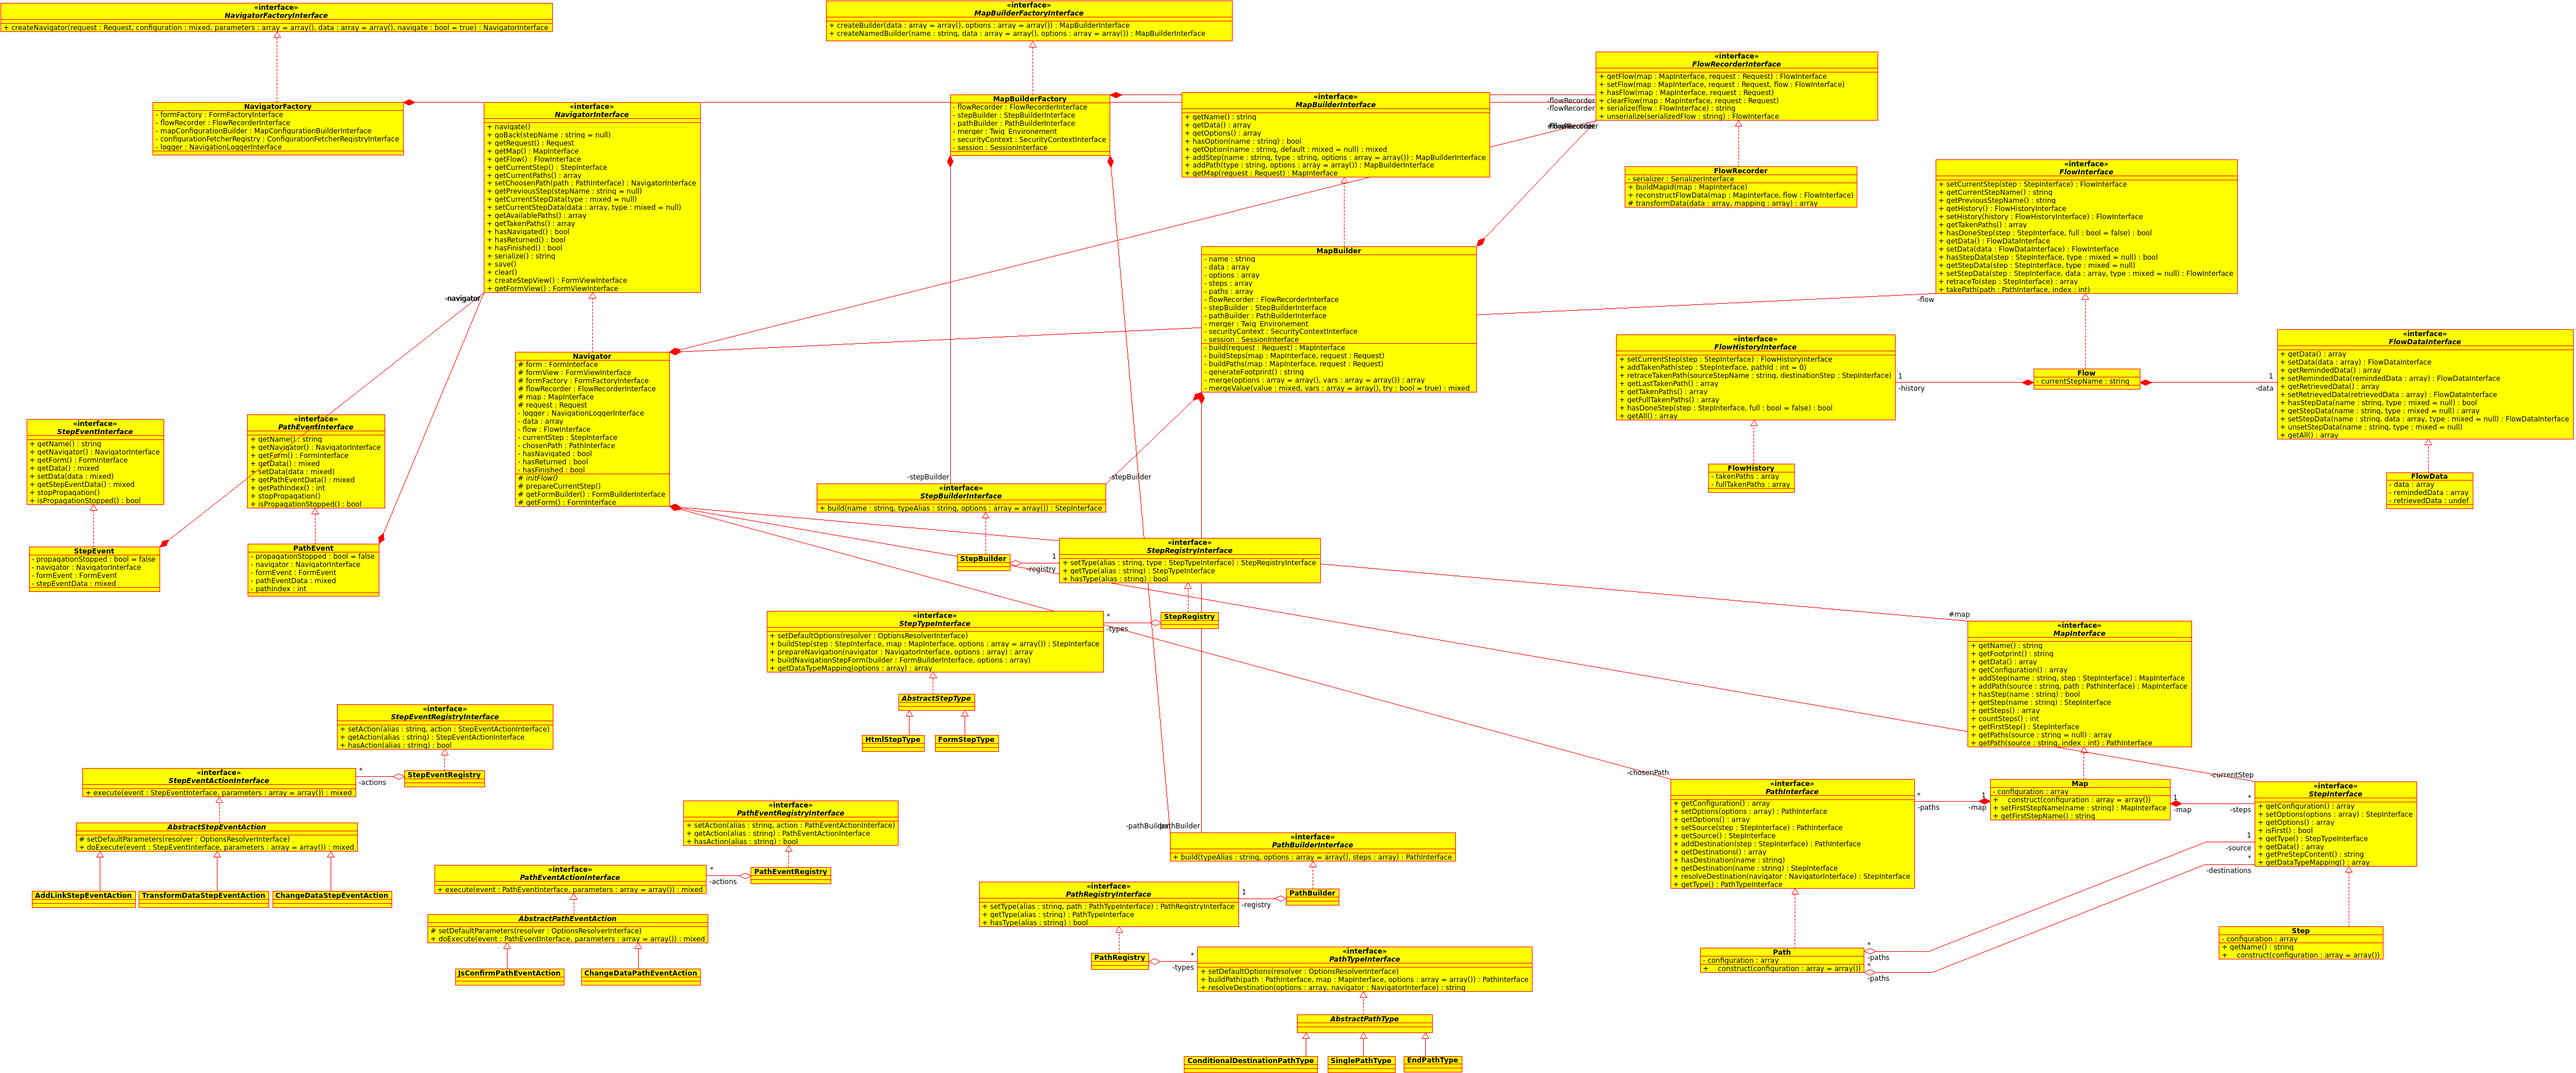
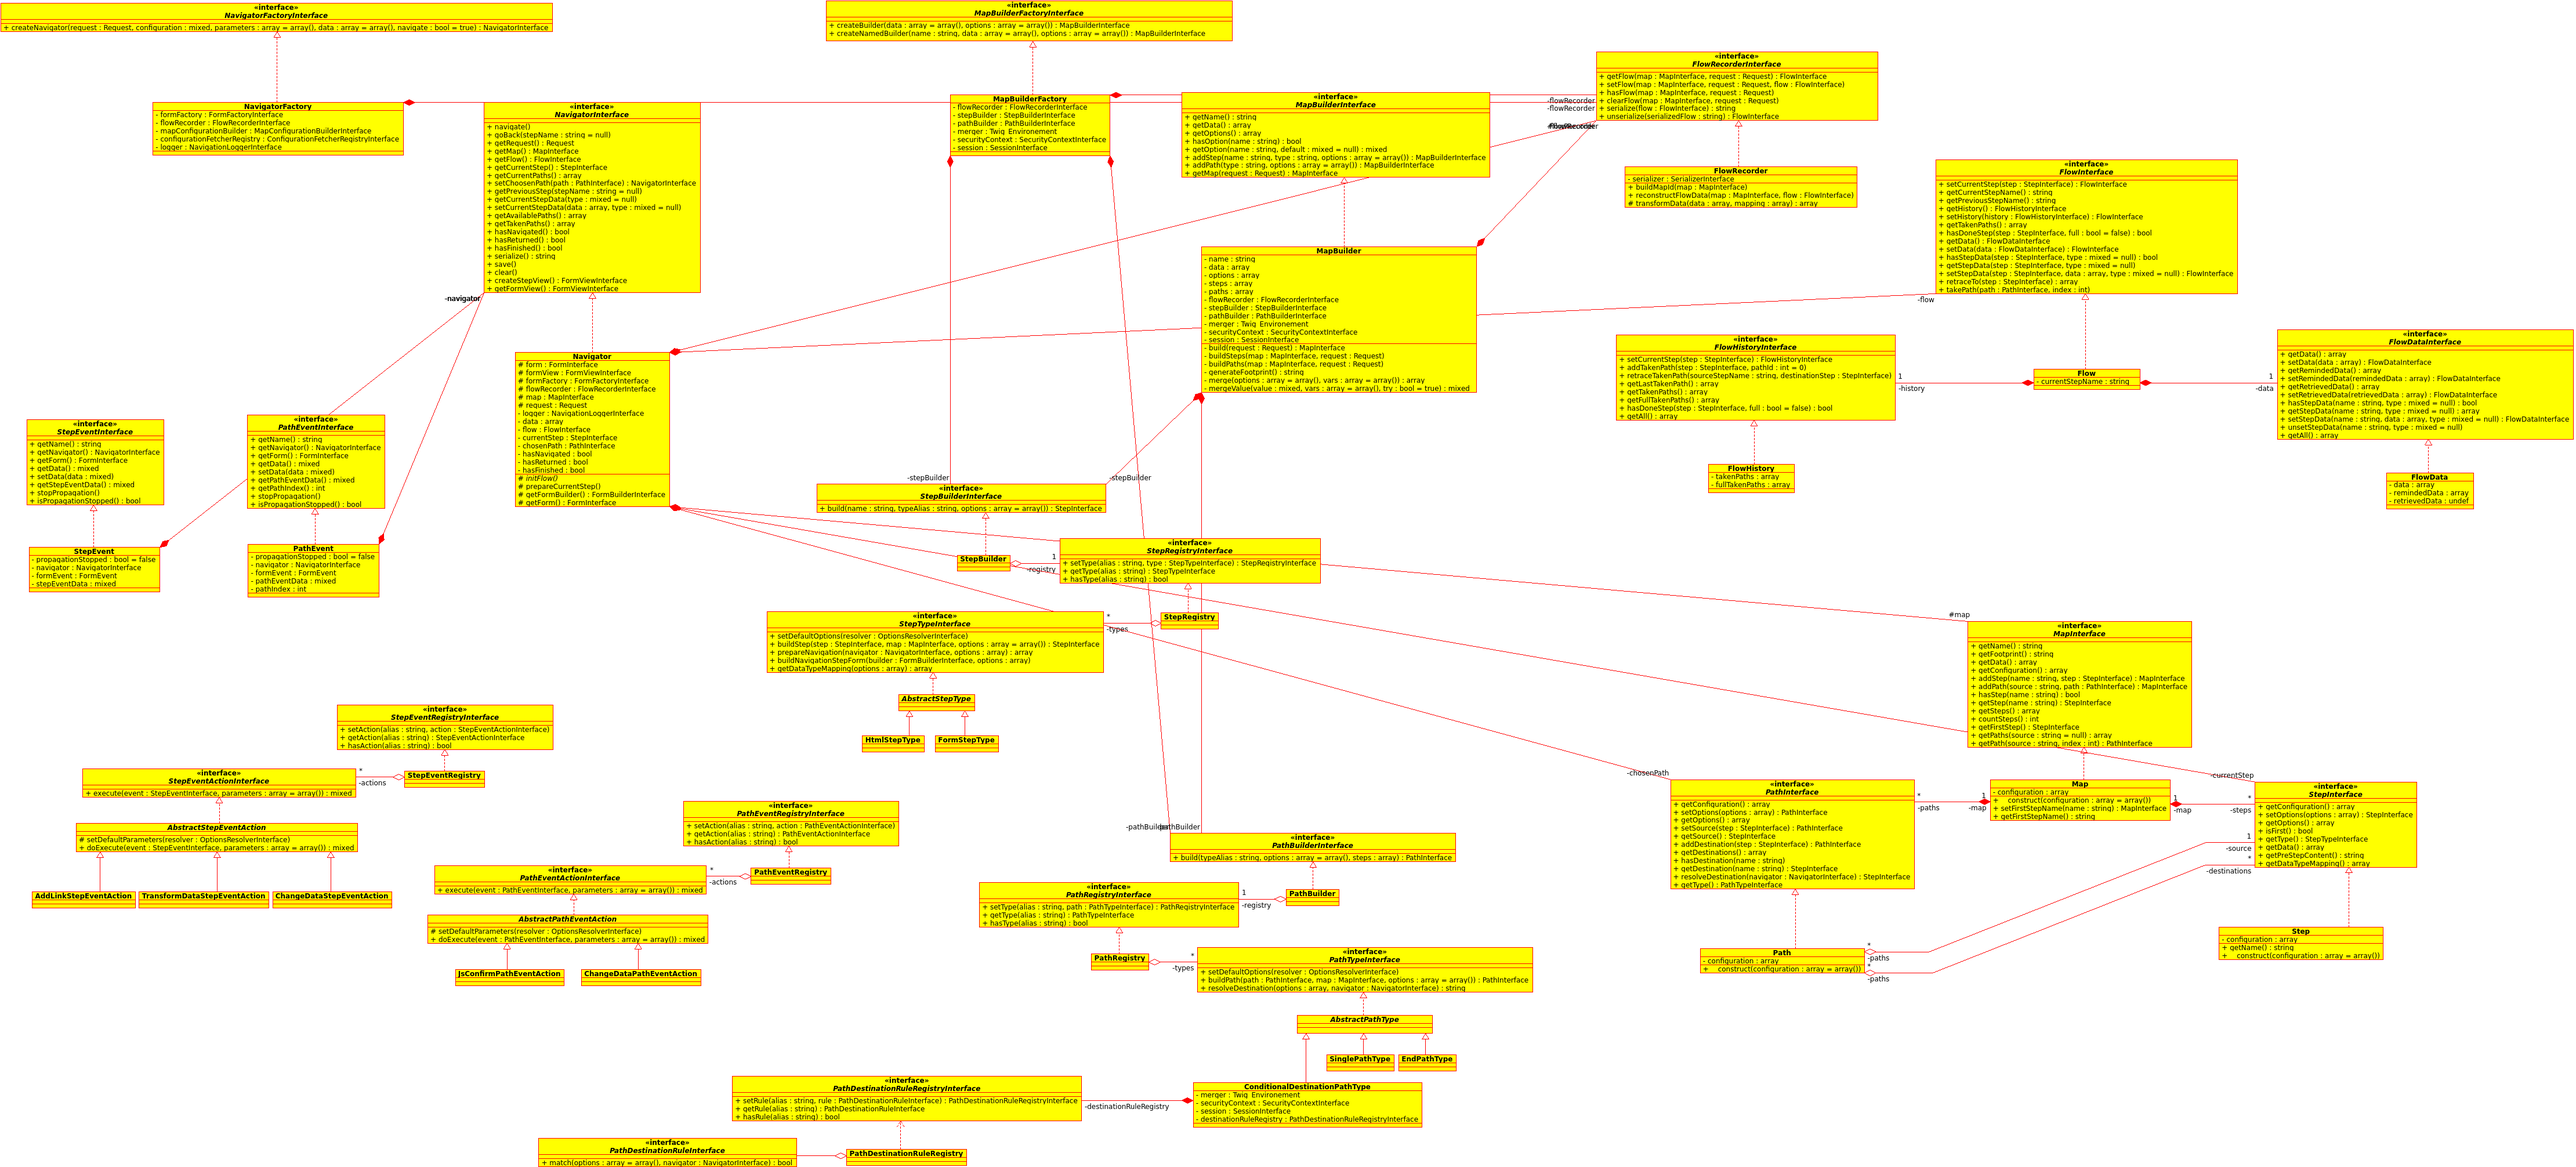
Update UML schema

diff --git a/Path/Type/ConditionalDestinationPathType.php b/Path/Type/ConditionalDestinationPathType.php
@@ -10,7 +10,7 @@ namespace IDCI\Bundle\StepBundle\Path\Type;
 use Symfony\Component\OptionsResolver\OptionsResolverInterface;
 use Symfony\Component\Security\Core\SecurityContextInterface;
 use Symfony\Component\HttpFoundation\Session\SessionInterface;
-use IDCI\Bundle\StepBundle\Path\DestinationRule\PathDestinationRuleRegistry;
+use IDCI\Bundle\StepBundle\Path\DestinationRule\PathDestinationRuleRegistryInterface;
 use IDCI\Bundle\StepBundle\Navigation\NavigatorInterface;
 
 class ConditionalDestinationPathType extends AbstractPathType
@@ -31,22 +31,23 @@ class ConditionalDestinationPathType extends AbstractPathType
     private $session;
 
     /**
-     * @var PathDestinationRuleRegistry
+     * @var PathDestinationRuleRegistryInterface
      */
     private $destinationRuleRegistry;
 
     /**
      * Constructor
      *
-     * @param Twig_Environment         $merger          The twig merger.
-     * @param SecurityContextInterface $securityContext The security context.
-     * @param SessionInterface         $session         The session.
+     * @param Twig_Environment                     $merger                  The twig merger.
+     * @param SecurityContextInterface             $securityContext         The security context.
+     * @param SessionInterface                     $session                 The session.
+     * @param PathDestinationRuleRegistryInterface $destinationRuleRegistry The destination rule registry.
      */
     public function __construct(
-        \Twig_Environment           $merger,
-        SecurityContextInterface    $securityContext,
-        SessionInterface            $session,
-        PathDestinationRuleRegistry $destinationRuleRegistry
+        \Twig_Environment                    $merger,
+        SecurityContextInterface             $securityContext,
+        SessionInterface                     $session,
+        PathDestinationRuleRegistryInterface $destinationRuleRegistry
     )
     {
         $this->merger                  = $merger;
